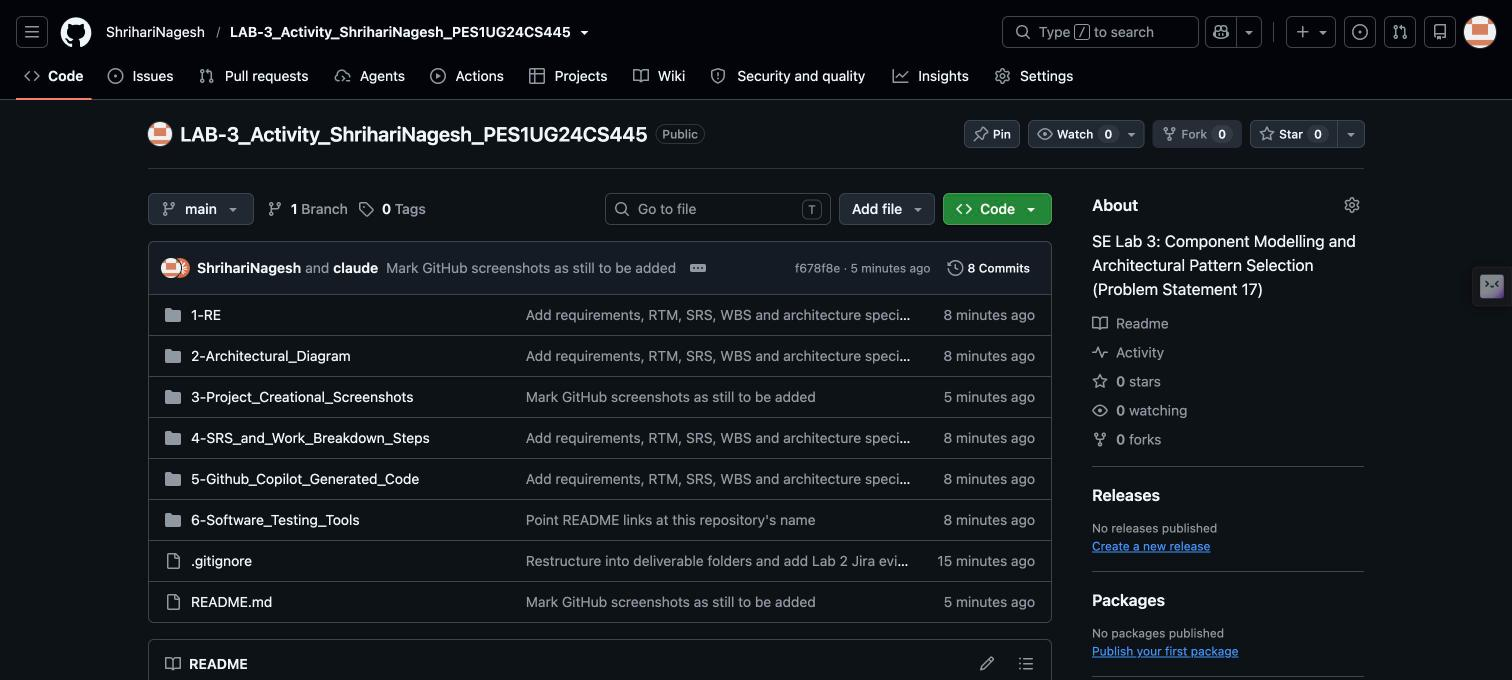
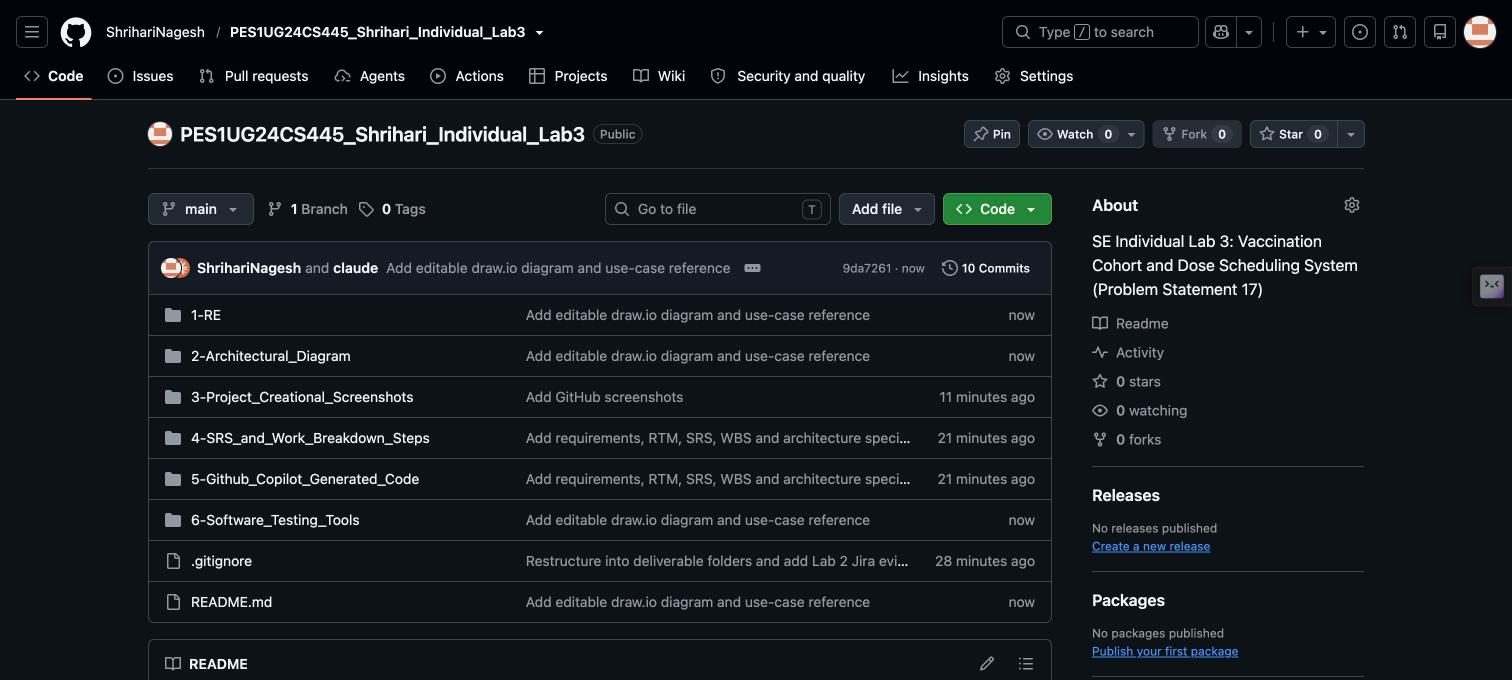
Refresh GitHub screenshots after the repository rename
Claude-Session: https://claude.ai/code/session_01C71evT6k77WvQRr8hJmYZN

diff --git a/3-Project_Creational_Screenshots/README.md b/3-Project_Creational_Screenshots/README.md
@@ -18,8 +18,9 @@ The Jira screenshots are the ones included in the Lab 2 reports (stored here as 
 | File | Shows |
 |---|---|
 | `01_GitHub_Repository_Home.jpg` | This repository's home page with the six folders |
-| `02_GitHub_Commit_History.jpg` | Commit history, including the failing-test commit (`6e9ba9f`) and the fix (`630b686`) |
-| `03_GitHub_Lab1_Repository.jpg` | The Lab 1 repository (problem statement, requirements table, use-case diagram) |
+| `02_GitHub_Commit_History.jpg` | Commit history, most recent commits |
+| `03_GitHub_Commits_Failing_Test_And_Fix.jpg` | Earlier commits, including the failing-test commit (`6e9ba9f`) and the fix (`630b686`) |
+| `04_GitHub_Lab1_Repository.jpg` | The Lab 1 repository (problem statement, requirements table, use-case diagram) |
 
 ![Repository home](./github/01_GitHub_Repository_Home.jpg)
 

diff --git a/README.md b/README.md
@@ -49,7 +49,7 @@ PES1UG24CS445_Shrihari_Individual_Lab3/
 │   └── generate_component_diagram.py          Script that draws the diagram
 │
 ├── 3-Project_Creational_Screenshots/       c) GitHub and Jira evidence
-│   ├── github/                                3 GitHub screenshots
+│   ├── github/                                4 GitHub screenshots
 │   └── jira/                                  19 Jira screenshots and the 3 Lab 2 reports
 │
 ├── 4-SRS_and_Work_Breakdown_Steps/         d) SRS and WBS
